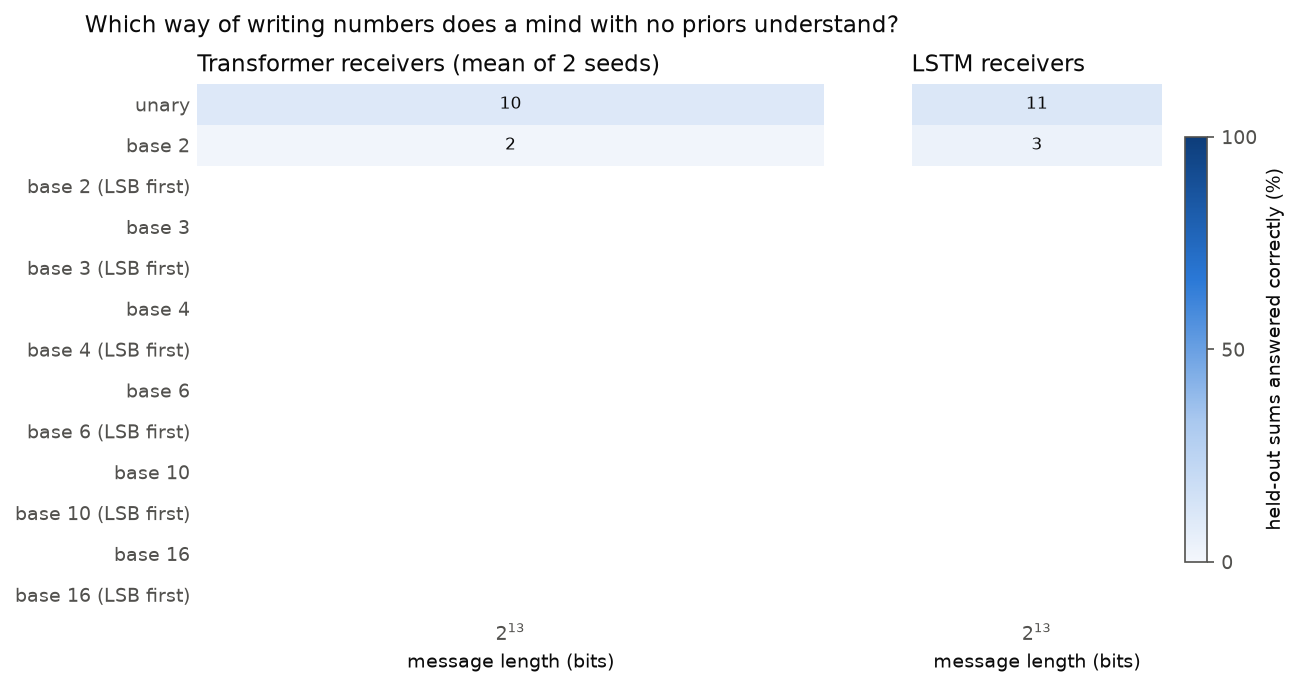
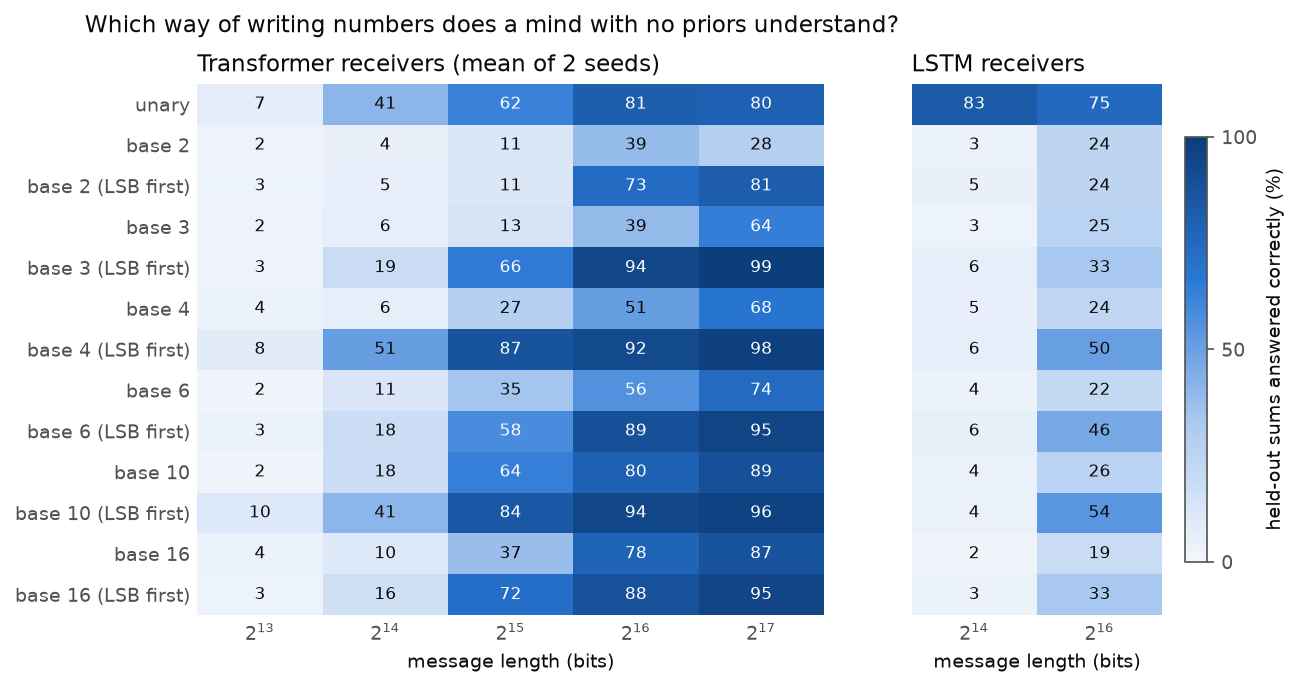
Radix sweep complete (156 runs); figures for all experiments; CI

diff --git a/experiments/figures.py b/experiments/figures.py
@@ -30,7 +30,7 @@ def radix_label(base, lsb):
 def mean_table(recs, arch, metric="add_heldout"):
     t = defaultdict(list)
     for r in recs:
-        if r["arch"] != arch:
+        if r["arch"] != arch or (arch == "tf" and r.get("tag") != "ens"):
             continue
         d = r["design"]
         t[(d["base"], d["lsb_first"], r["budget"])].append(r["scores"][metric])
@@ -68,7 +68,7 @@ def fig_radix():
     fig, axes = plt.subplots(1, 2, figsize=(10, 4.6), gridspec_kw={"width_ratios": [5, 2]})
     im = heat(axes[0], rows, budgets, tab, "Transformer receivers (mean of 2 seeds)")
     tab_l, _ = mean_table(recs, "lstm")
-    lb = sorted({r["budget"] for r in recs if r["arch"] == "lstm"})
+    lb = [2**14, 2**16]
     heat(axes[1], rows, lb, tab_l, "LSTM receivers")
     axes[1].set_yticklabels([])
     cb = fig.colorbar(im, ax=axes, shrink=0.8, pad=0.02)
@@ -80,6 +80,87 @@ def fig_radix():
     plt.close(fig)
 
 
+def style(ax):
+    ax.grid(axis="y", color=GRID, lw=0.6)
+    ax.set_axisbelow(True)
+    ax.tick_params(length=0)
+
+
+def fig_content():
+    recs = [r for r in load(f"{ROOT}/results/content.jsonl") if r["arch"] == "tf"]
+    if not recs:
+        return
+    names = ["add", "add+count", "add+cmp", "add+mul", "all"]
+    budgets = sorted({r["budget"] for r in recs})
+    fig, ax = plt.subplots(figsize=(7, 3.4))
+    w = 0.8 / len(budgets)
+    for j, B in enumerate(budgets):
+        for i, n in enumerate(names):
+            v = [r["scores"]["add_heldout"] for r in recs if r["design"]["name"] == n and r["budget"] == B]
+            if not v:
+                continue
+            x = i + (j - (len(budgets) - 1) / 2) * w
+            ax.bar(x, np.mean(v), w * 0.9, color=SERIES[0], alpha=0.35 + 0.65 * j / max(1, len(budgets) - 1),
+                   label=f"$2^{{{int(np.log2(B))}}}$ bits" if i == 0 else None)
+            ax.plot([x] * len(v), v, "o", ms=2.5, color=INK, alpha=0.6)
+    ax.set_xticks(range(len(names)), ["sums only", "+ counting", "+ comparisons", "+ products", "everything"])
+    ax.set_ylim(0, 1)
+    ax.set_ylabel("held-out sums correct")
+    ax.legend(frameon=False, fontsize=8, ncol=3, loc="upper left")
+    ax.set_title("Same bit budget, different curriculum (base 10, LSB first, transformer)", loc="left", color=INK)
+    style(ax)
+    fig.savefig(f"{FIG}/content.png")
+    plt.close(fig)
+
+
+def fig_channel():
+    recs = load(f"{ROOT}/results/channel.jsonl")
+    if not recs:
+        return
+    fig, ax = plt.subplots(figsize=(5.5, 3.4))
+    for c, rep in zip(SERIES, (1, 3)):
+        ns = sorted({r["noise"] for r in recs if r["rep"] == rep})
+        m = [np.mean([r["scores"]["add_heldout"] for r in recs if r["rep"] == rep and r["noise"] == n]) for n in ns]
+        ax.plot(ns, m, "-o", color=c, lw=2, ms=5, label="no repetition" if rep == 1 else "each bit sent 3x")
+    ax.set_xlabel("bit-flip probability")
+    ax.set_ylabel("held-out sums correct")
+    ax.set_ylim(0, 1)
+    ax.legend(frameon=False, fontsize=8)
+    ax.set_title("Raw noisy bits, fixed total budget ($2^{16}$ bits)", loc="left", color=INK)
+    style(ax)
+    fig.savefig(f"{FIG}/channel.png")
+    plt.close(fig)
+
+
+def fig_evolve():
+    fig, ax = plt.subplots(figsize=(5.5, 3.4))
+    any_ = False
+    for c, name in zip(SERIES, ("tf", "lstm", "mixed")):
+        p = f"{ROOT}/results/evolve_{name}.json"
+        if not os.path.exists(p):
+            continue
+        any_ = True
+        h = json.load(open(p))["history"]
+        best = [g[0]["fitness"] for g in h]
+        med = [float(np.median([x["fitness"] for x in g])) for g in h]
+        ax.plot(range(len(h)), best, "-o", color=c, lw=2, ms=5, label=f"{name} receivers: best")
+        ax.plot(range(len(h)), med, "--", color=c, lw=1.2, alpha=0.7, label="median")
+    if not any_:
+        plt.close(fig)
+        return
+    ax.set_xlabel("generation")
+    ax.set_ylabel("held-out sums correct")
+    ax.set_ylim(0, 1)
+    ax.legend(frameon=False, fontsize=8)
+    ax.set_title("Evolving the message ($2^{14}$ bits)", loc="left", color=INK)
+    style(ax)
+    fig.savefig(f"{FIG}/evolve.png")
+    plt.close(fig)
+
+
 if __name__ == "__main__":
     fig_radix()
+    fig_content()
+    fig_channel()
+    fig_evolve()
     print("figures ->", FIG)

diff --git a/experiments/export.py b/experiments/export.py
@@ -42,6 +42,8 @@ if recs:
     for r in recs:
         if r["arch"] == "tf" and r.get("tag") != "ens":
             continue  # earlier single-model runs: kept only as an engine cross-check
+        if r["arch"] == "lstm" and r["budget"] not in (2**14, 2**16):
+            continue  # early smoke tests
         dd = r["design"]
         t[(r["arch"], dd["base"], dd["lsb_first"], r["budget"])].append(r["scores"]["add_heldout"])
     out["radix"] = [{"arch": a, "base": b, "lsb": l, "budget": B, "acc": mean_sd(v)}
